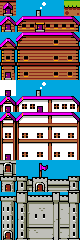
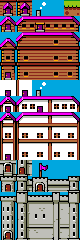
fixed door / roof drawing

diff --git a/util/property-draw.js b/util/property-draw.js
@@ -113,15 +113,44 @@ function drawHouse1Wide(tilesPng, height, tileOffset = 0) {
 	return out;
 }
 
+function getDoorPosition(width) {
+	// Find the center-most tile where (x % 2 === 1) (i.e., where tile 22 would be used)
+	let best = -1;
+	let minDist = Infinity;
+	const center = (width - 1) / 2;
+	for (let x = 1; x < width - 1; x++) {
+		if (x % 2 === 1) {
+			const dist = Math.abs(x - center);
+			if (dist < minDist) {
+				minDist = dist;
+				best = x;
+			}
+		}
+	}
+	// If no odd tile found (e.g. width=3), fallback to center
+	if (best === -1) best = Math.round(center);
+	return best;
+}
+
 function drawHouseLarge(tilesPng, width, height, tileOffset = 0) {
 	const out = new PNG({width: width * TILE_SIZE, height: (height + 1) * TILE_SIZE, fill: true});
-	// Extra top row using first row of tiles
+	// Fill the extra top row (y=0) with background color except for the middle tiles
 	for (let x = 0; x < width; x++) {
-		let tileIdx;
-		if (x === 0) tileIdx = 1;
-		else if (x === width-1) tileIdx = 4;
-		else tileIdx = (x % 4 === 2 ? 2 : 3);
-		copyTile(tilesPng, out, tileIdx + tileOffset, x, 0);
+		if (x > 0 && x < width - 1) {
+			let tileIdx = (x % 4 === 2 ? 2 : 3);
+			copyTile(tilesPng, out, tileIdx + tileOffset, x, 0);
+		} else {
+			// Fill with background color (0x37, 0xa7, 0xdf)
+			for (let dy = 0; dy < TILE_SIZE; dy++) {
+				for (let dx = 0; dx < TILE_SIZE; dx++) {
+					const idx = ((0 * TILE_SIZE + dy) * out.width + (x * TILE_SIZE + dx)) << 2;
+					out.data[idx] = 0x37;
+					out.data[idx+1] = 0xa7;
+					out.data[idx+2] = 0xdf;
+					out.data[idx+3] = 255;
+				}
+			}
+		}
 	}
 	// Top row (now second row)
 	for (let x = 0; x < width; x++) {
@@ -142,21 +171,22 @@ function drawHouseLarge(tilesPng, width, height, tileOffset = 0) {
 		}
 	}
 	// Bottom row
-	for (let x = 0; x < width; x++) {
-		let tileIdx;
-		if (x === 0) tileIdx = 21; // 16+5
-		else if (x === width-1) tileIdx = 24; // 19+5
-		else if (x === getDoorPosition(width)) tileIdx = 0; // 22+5
-		else tileIdx = (x % 2 === 0 ? 23 : 22); // 18+5 : 17+5
-		copyTile(tilesPng, out, tileIdx + tileOffset, x, height);
+	if (width === 2) {
+		// Special case: use tile 1 for left, 24 for right
+		copyTile(tilesPng, out, 1 + tileOffset, 0, height);
+		copyTile(tilesPng, out, 24 + tileOffset, 1, height);
+	} else {
+		const doorX = getDoorPosition(width);
+		for (let x = 0; x < width; x++) {
+			let tileIdx;
+			if (x === 0) tileIdx = 21;
+			else if (x === width-1) tileIdx = 24;
+			else if (x === doorX) tileIdx = 0;
+			else tileIdx = (x % 2 === 0 ? 23 : 22);
+			copyTile(tilesPng, out, tileIdx + tileOffset, x, height);
+		}
 	}
 	return out;
-}
-
-function getDoorPosition(width) {
-	const center = Math.floor(width/2);
-	if (width % 2 === 0) return center;
-	return center - 1;
 }
 
 export async function drawAllPropertiesImage(properties) {
